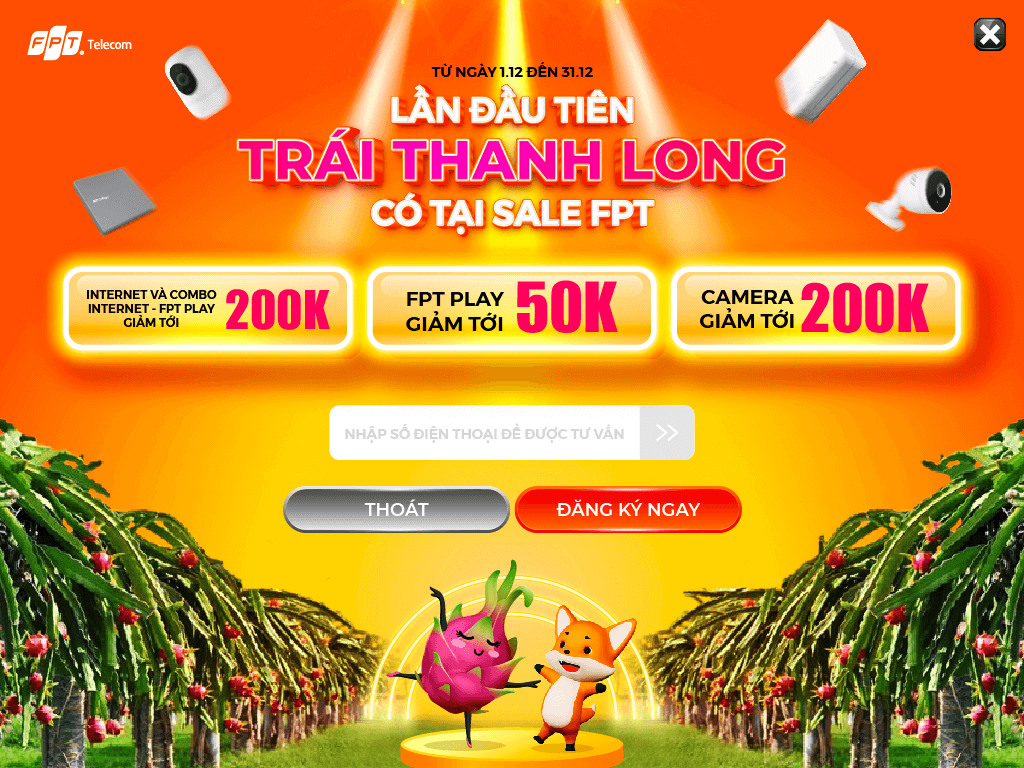
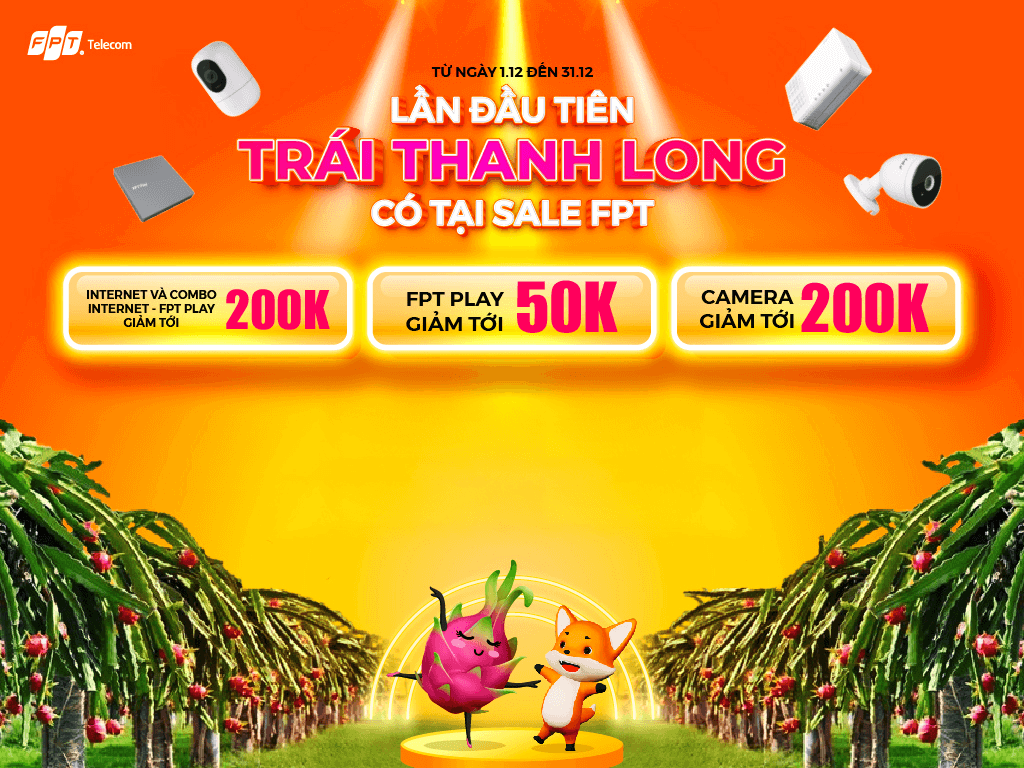
push code

diff --git a/SaleFPT/index.html b/SaleFPT/index.html
@@ -7,6 +7,12 @@
 		<link rel="icon" href="./favicon-16x16.png" type="image/png" />
 		<meta property="og:image" content="./fpt-logo.png" />
 		<meta name="description" content="FPT Telecom" />
+		<script
+			defer
+			async
+			src="https://kit.fontawesome.com/cc3041f69f.js"
+			crossorigin="anonymous"
+		></script>
 	</head>
 	<style>
 		body,
@@ -43,6 +49,21 @@
 		.container_top {
 			width: 100%;
 			box-sizing: border-box;
+			position: relative;
+		}
+
+		.icon_close {
+			position: absolute;
+			top: 10px;
+			right: 10px;
+			width: 40px;
+			height: 40px;
+			background-color: #ffffff5a;
+			border-radius: 50%;
+			display: flex;
+			align-items: center;
+			justify-content: center;
+			cursor: pointer;
 		}
 
 		.container_bottom {
@@ -290,7 +311,14 @@
 
 	<body>
 		<div class="container" loading="lazy">
-			<div class="container_top"></div>
+			<div class="container_top">
+				<div class="icon_close" id="close">
+					<i
+						class="fa-regular fa-circle-xmark"
+						style="font-size: 20px; color: #fff"
+					></i>
+				</div>
+			</div>
 			<div class="container_bottom">
 				<div class="bottom_content">
 					<div class="bottom_content_input_container">
@@ -300,7 +328,9 @@
 							id="phone"
 						/>
 						<div class="bottom_content_input_icon">
-							<span style="color: white">>></span>
+							<span style="color: white"
+								><i class="fa-solid fa-angles-right"></i
+							></span>
 						</div>
 					</div>
 					<div class="bottom_content_actions_container">
@@ -328,6 +358,8 @@
 		<script async defer>
 			const btnSubmitElement = document.getElementById('button_submit');
 			const btnExitElement = document.getElementById('button_exit');
+			const closeElement = document.getElementById('close');
+			const phoneElement = document.getElementById('phone');
 			const modalLoading = document.querySelector('.modal-loading');
 			const containerElement = document.querySelector('.container');
 			const containerTopElement =
@@ -361,8 +393,6 @@
 				let heightInputIcon = '60px';
 				let heightActionBtn = '55px';
 				let gapBottomContent = '25px';
-
-				console.log('screenWidth: ', screenWidth);
 
 				if (screenWidth === 320) {
 					imageUrl = './sale_mobile.png';
@@ -466,11 +496,46 @@
 
 			window.addEventListener('resize', updateBackground);
 
+			let phoneValue = phoneElement.value;
+
 			btnSubmitElement.addEventListener('click', (e) => {
 				e.preventDefault();
+				if (!phoneElement?.value) {
+					alert('Vui lòng nhập số điện thoại');
+					phoneElement.focus();
+					return;
+				} else {
+					if (
+						phoneElement?.value?.length < 10 ||
+						phoneElement?.value?.length > 11
+					) {
+						alert('Số điện thoại không hợp lệ');
+						phoneElement.focus();
+						return;
+					}
+				}
+
+				modalLoading.style.display = 'flex';
+				setTimeout(() => {
+					modalLoading.style.display = 'none';
+					alert(
+						`Đăng ký thành công\nChúng tôi sẽ liên hệ với bạn sớm nhất qua số điện thoại ${phoneElement?.value} bạn đã cung cấp.\nXin chân thành cảm ơn!`,
+					);
+				}, 3000);
 			});
 			btnExitElement.addEventListener('click', (e) => {
 				e.preventDefault();
+				const isConfirm = confirm('Bạn có chắc chắn muốn thoát?');
+				if (isConfirm) {
+					window.close();
+				}
+			});
+			closeElement.addEventListener('click', (e) => {
+				e.preventDefault();
+				const isConfirm = confirm('Bạn có chắc chắn muốn thoát?');
+				if (isConfirm) {
+					window.close();
+				}
 			});
 		</script>
 	</body>
